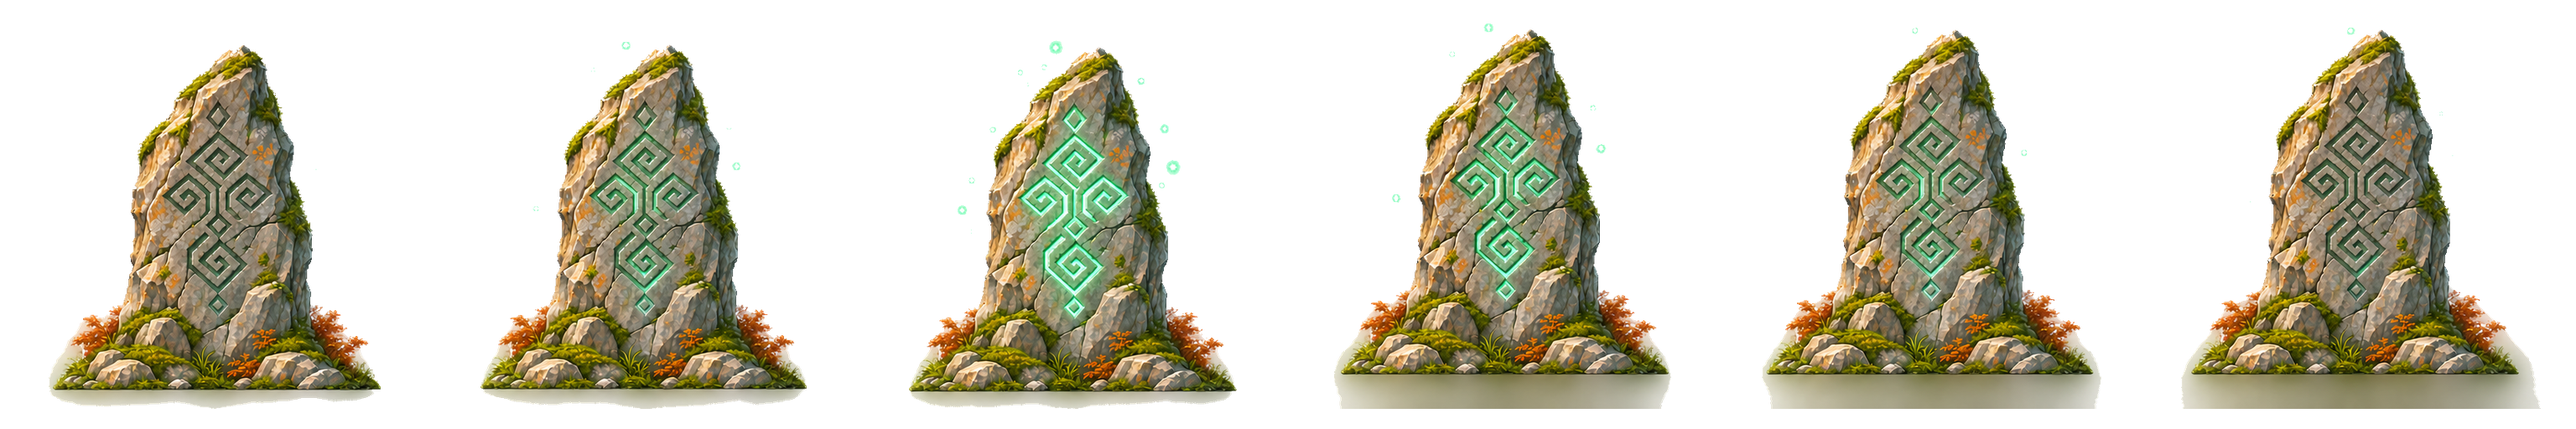
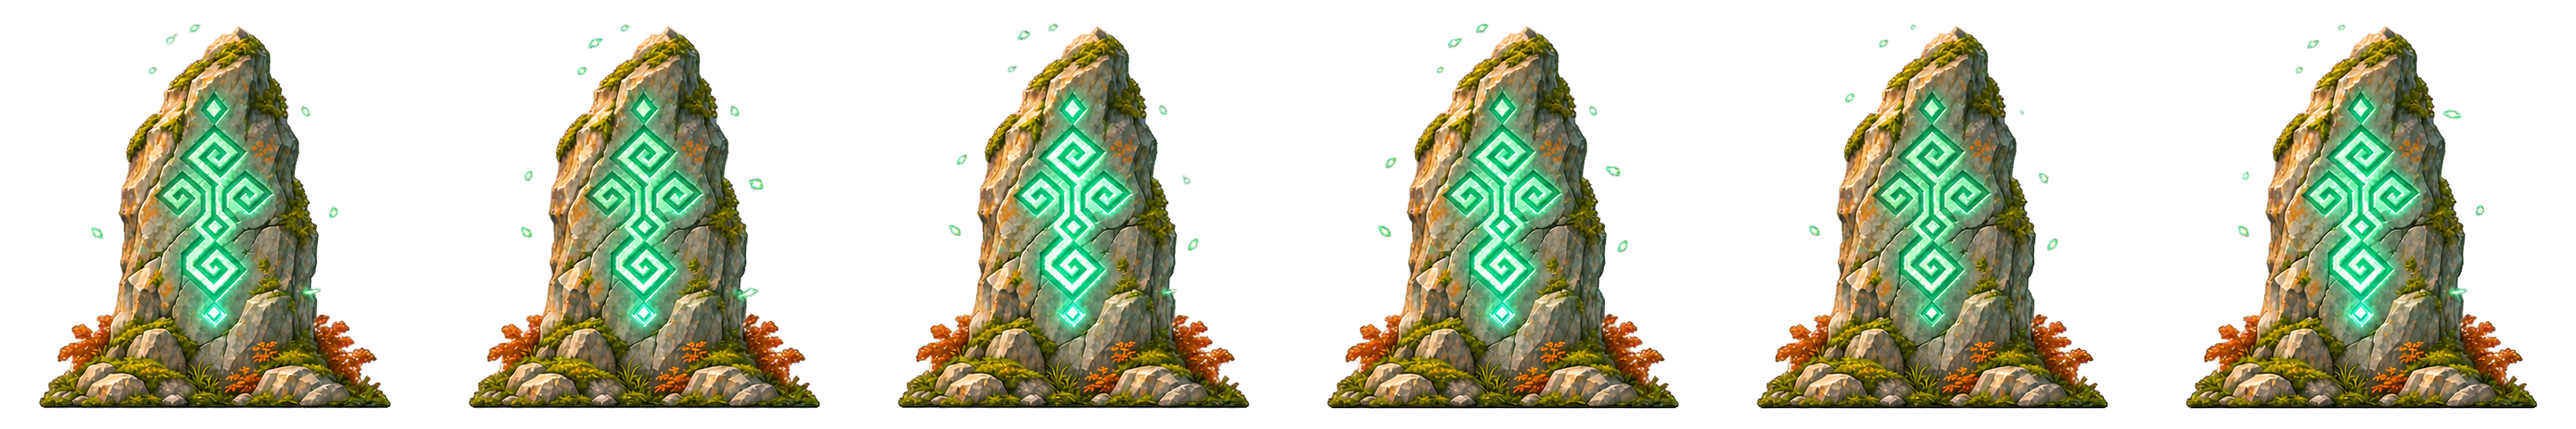
Codex DOPUNA-12 complete: the five obstacles Šarac jumps, the low throw from a crouch
- Overturned cart, felled logs, sharpened stakes, a rockfall, barrels and sacks across the gallop road
- S + I: Marko crouches and throws the mace along the ground in its own clip

diff --git a/art/world-pack-03/STATUS-ANIMACIJE.md b/art/world-pack-03/STATUS-ANIMACIJE.md
@@ -224,3 +224,5 @@ DOPUNA-12: prepreka-kamenje.png — GOTOVO; PNG 768x512 sa izvornom providnoscu 
 DOPUNA-12: prepreka-bure.png — GOTOVO; PNG 768x512 sa izvornom providnoscu u art/world-pack-03/. Proveren alfa kanal. Prompt: dopuna12-props-prompts.json; izvor: sources/dopuna12-props/.
 
 DOPUNA-12: marko-crouch-throw — GOTOVO; 6 kadrova; atlas, manifest sa frame_layout, frames, preview.gif i qa.json u animation-pack-04/assets/marko-crouch-throw/. 512x512, alfa, oslonac y487 provereni. Prompt: plan-dopuna12.json.
+
+DOPUNA-12: vilinski-kamen-budan — GOTOVO; 6 kadrova; atlas, manifest sa frame_layout, frames, preview.gif i qa.json u animation-pack-04/assets/vilinski-kamen-budan/. 512x512, alfa, oslonac y487 provereni. Prompt: plan-dopuna12.json.
